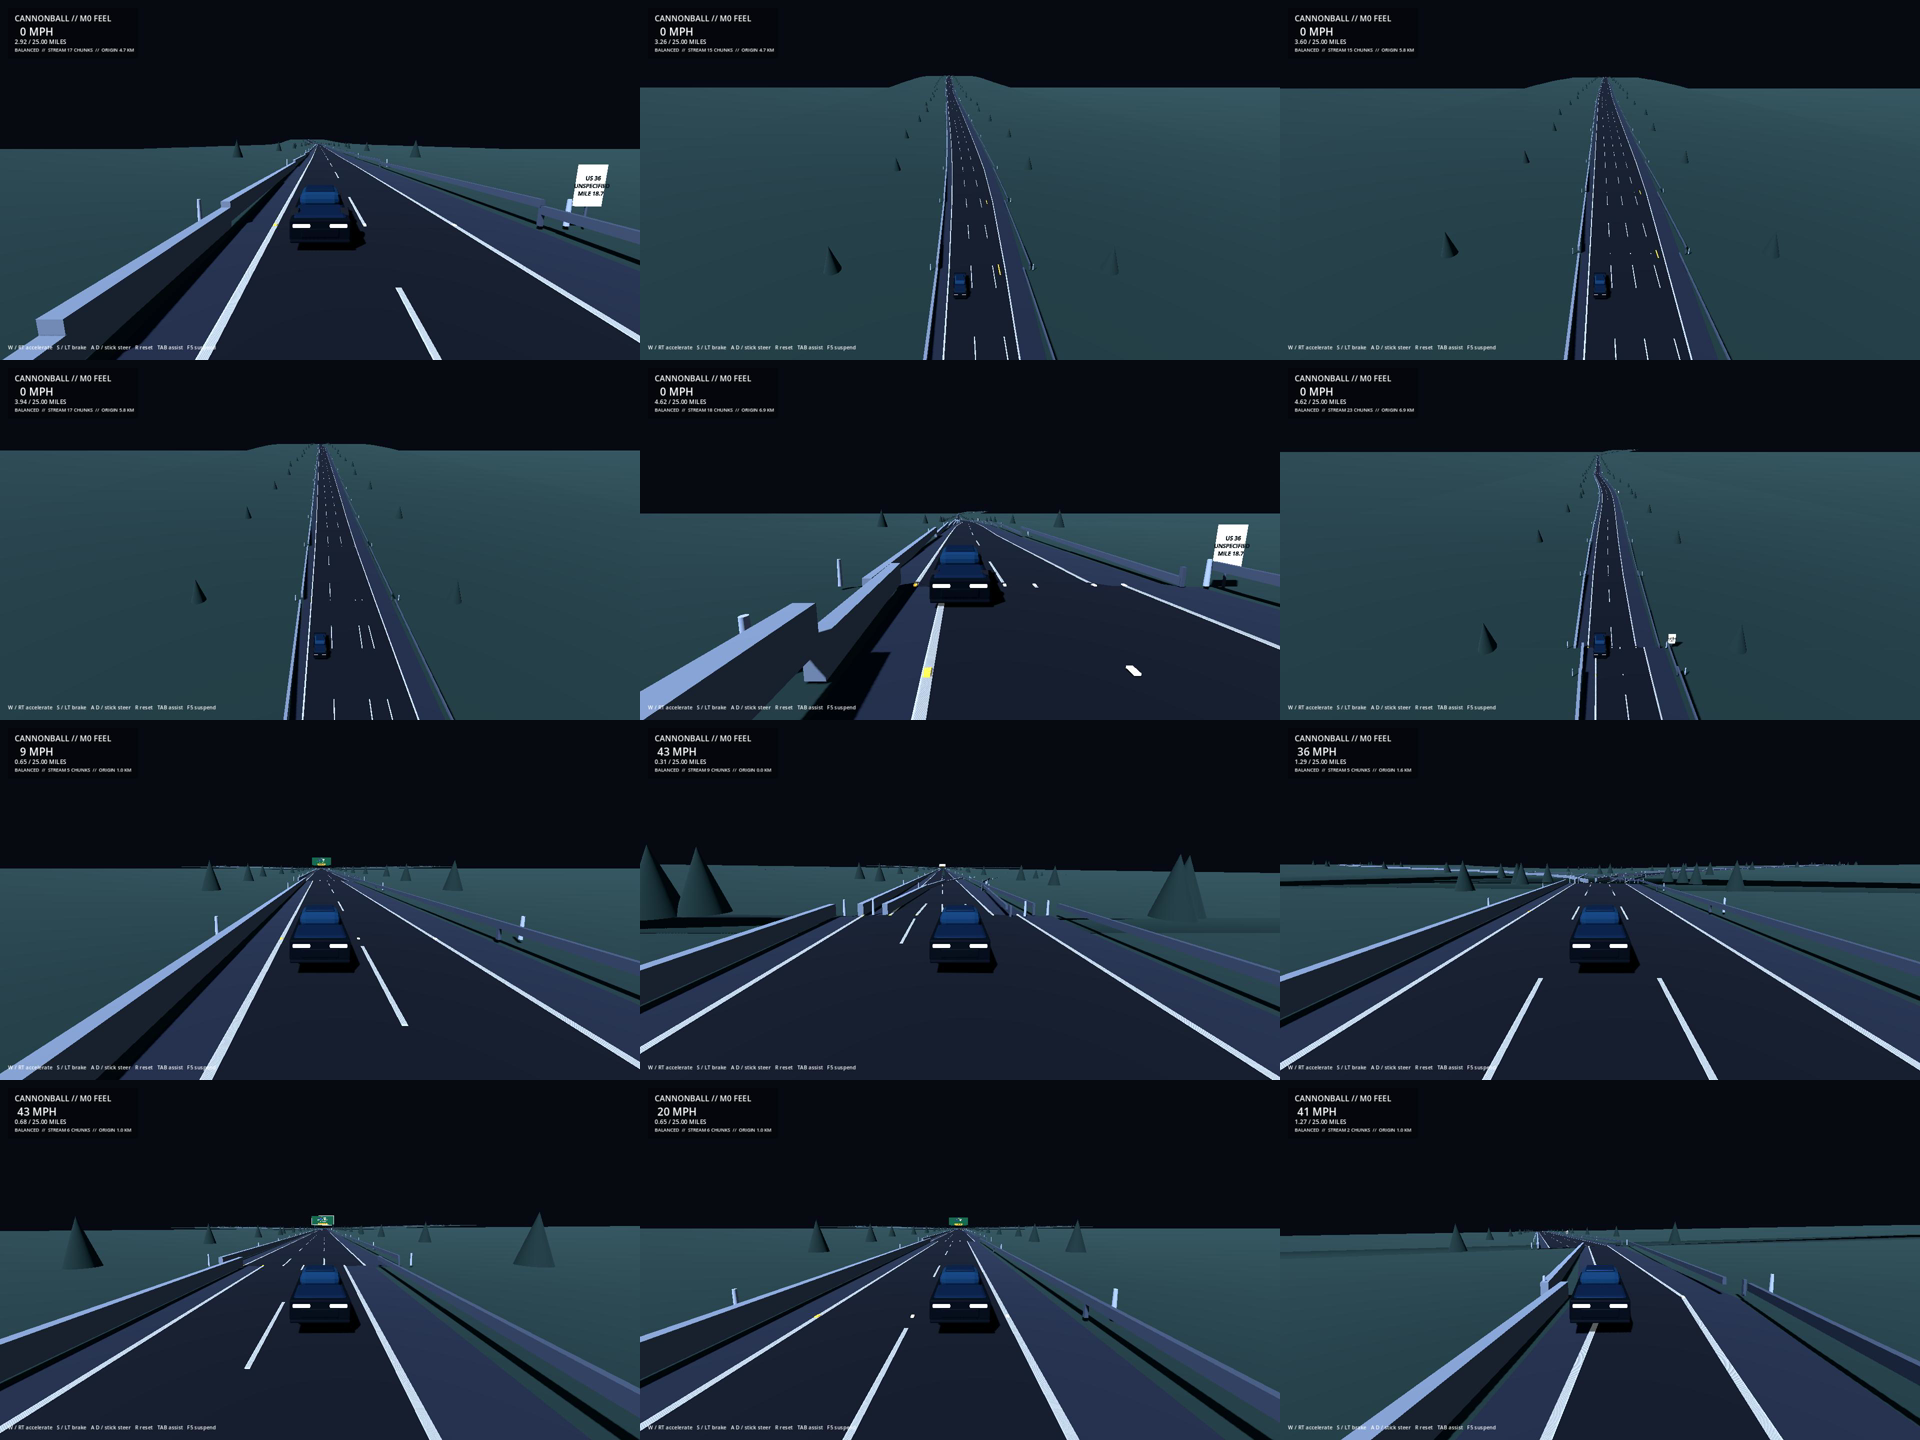
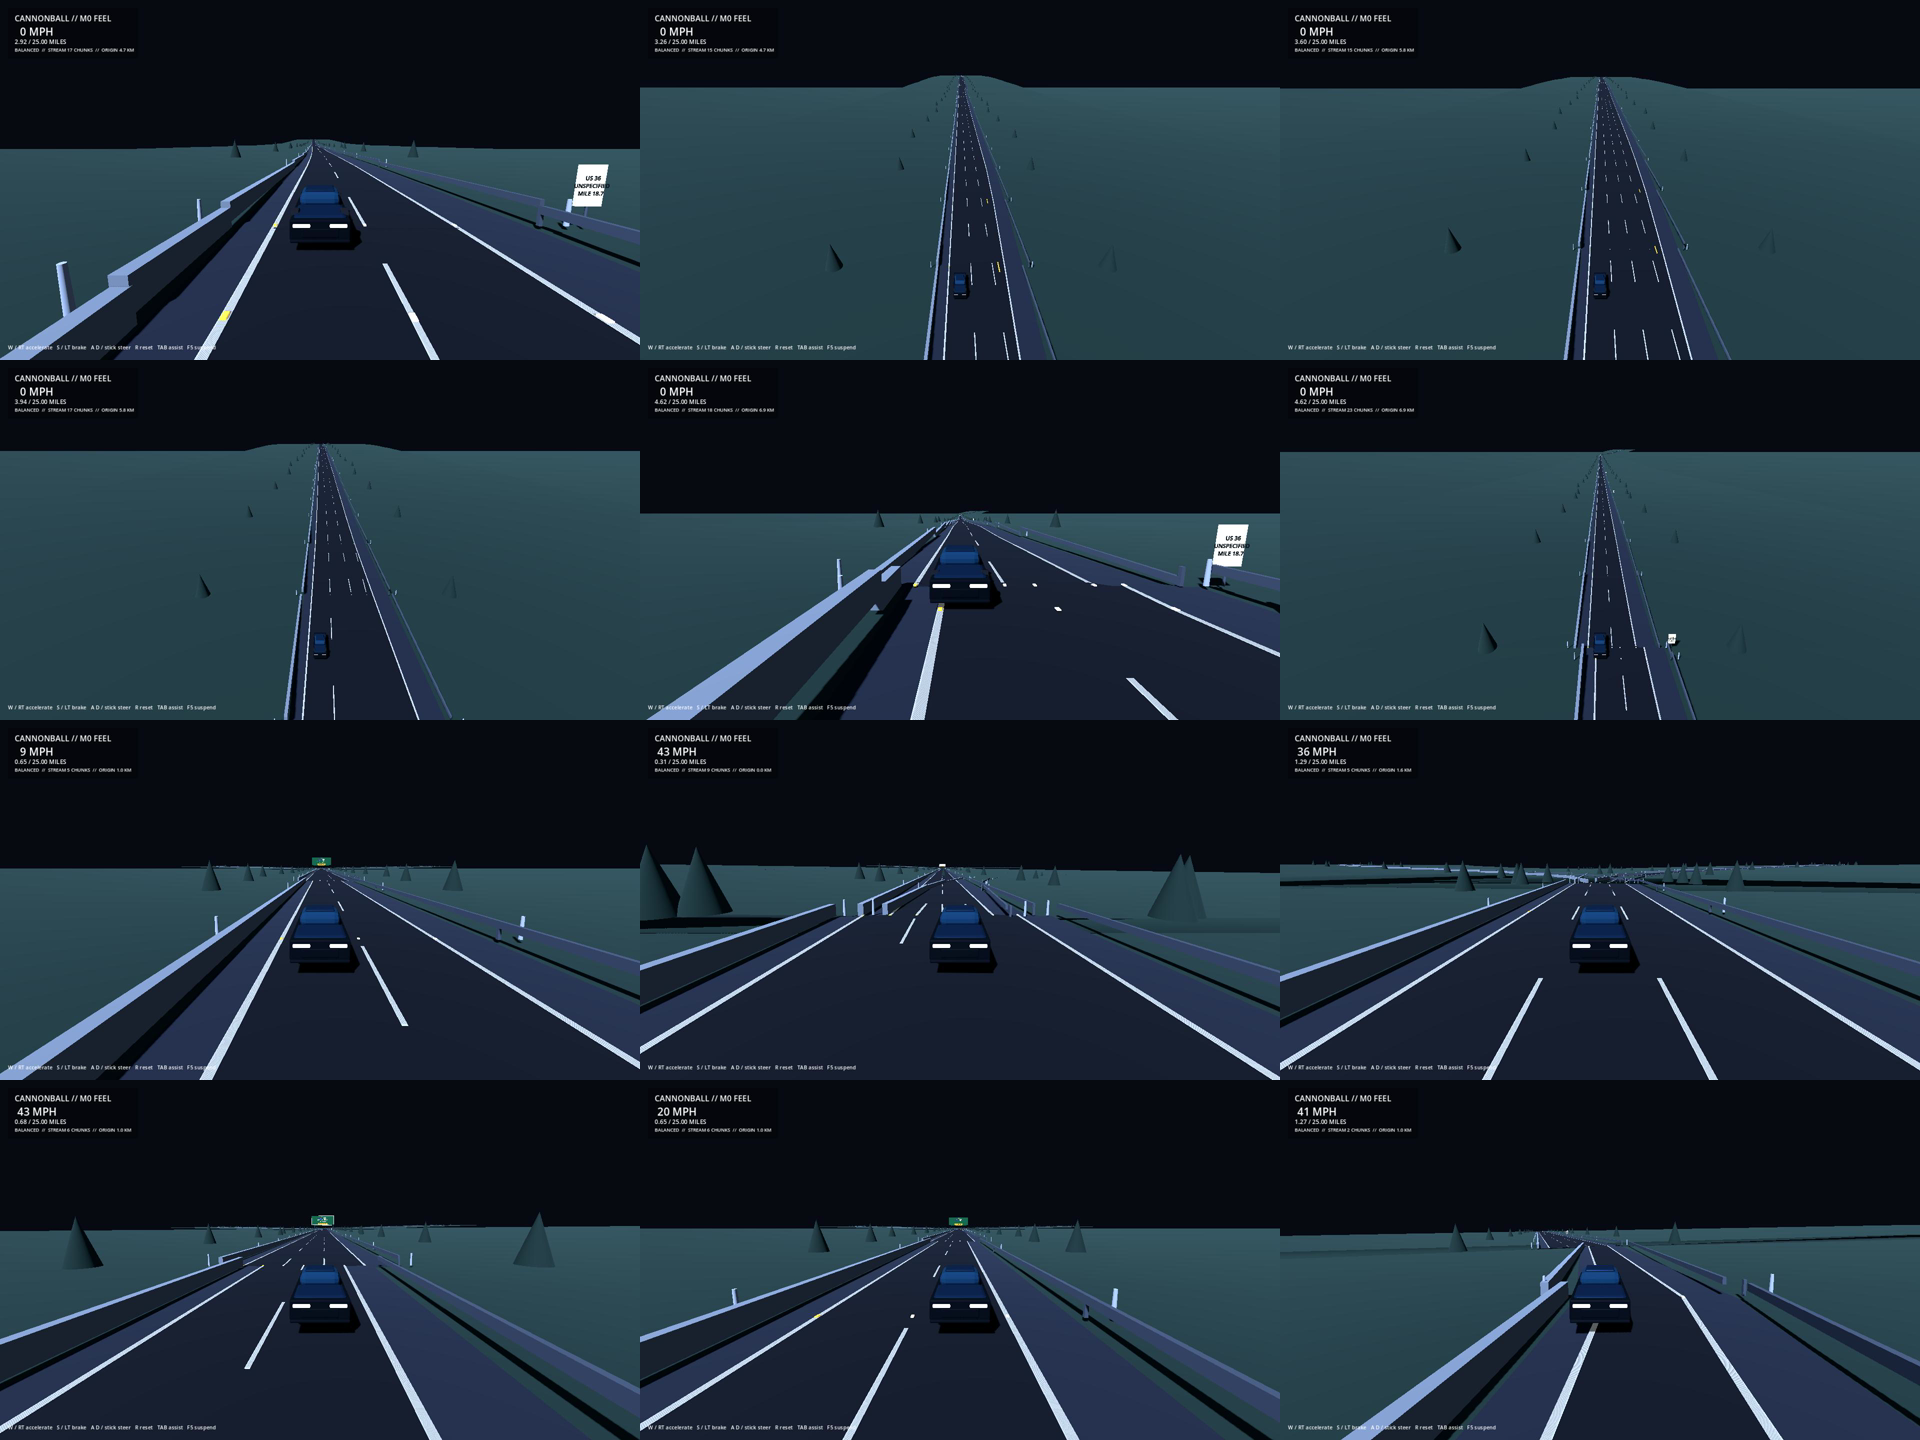
Record design alignment acceptance

diff --git a/docs/audits/2026-07-18-p0-012-validation-corpus-review.md b/docs/audits/2026-07-18-p0-012-validation-corpus-review.md
@@ -1,7 +1,7 @@
 # P0-012 representative validation corpus adversarial review
 
 - Review date: 2026-07-19 UTC
-- Reviewed implementation: `68eafa17d4a1cf929e3fa3d93d8703407056909a`
+- Reviewed implementation: `ca4e511623d6b059d29d4a34b6f9b6e887819738`
 - Result: machine acceptance passed; required geographic-plausibility and
   route-choice-comprehension human gate remains open as Q-025
 - Runtime: official Godot 4.7.1 .NET
@@ -83,9 +83,12 @@ directional transfer, and semi-directional transfer.
     cuts as visible angle points. The importer now reconstructs one conditioned
     centerline across the full unbranched corridor before splitting it back into
     semantic edges. This also absorbs a 28.284-meter source sliver that pairwise
-    smoothing could not handle correctly. All 44 continuation pairs now remain
-    below the locked 2-degree sampled-boundary limit; the measured maximum is
-    1.324 degrees, and runtime chunks share the exact alignment tangent.
+    smoothing could not handle correctly. A 50-meter design-guide tolerance
+    removes short source doglegs before curve conditioning, matching the civil
+    design sequence of choosing the alignment before staking road sections. All
+    44 continuation pairs now remain below the locked 1-degree sampled-boundary
+    limit; the measured maximum is 0.846 degrees, and runtime chunks share the
+    exact alignment tangent. The tightest sampled curve radius is 360.715 meters.
 16. The large black bars visible beside otherwise connected road surfaces were
     long shadows from cone-shaped placeholder scenery. Shadow casting is now
     disabled only for those placeholders, and the runtime review-geometry gate
@@ -122,8 +125,9 @@ before source-record boundaries are reintroduced.
 - Variable topology reached 2–4 lanes, four transitions, gore and transition
   collision, six local-origin rebases, and `161.1 mph`.
 - The source-backed corridor contains 44 physical continuation pairs. Maximum
-  sampled boundary deflection is `1.324 degrees` against the locked `2-degree`
-  limit, down from the original `151.98-degree` reversal.
+  sampled boundary deflection is `0.846 degrees` against the locked `1-degree`
+  limit, down from the original `151.98-degree` reversal. The minimum sampled
+  alignment radius is `360.715 m`.
 - Route context produced four mile markers, one exit sign, two transfer signs,
   two concurrent markers, four distinct mile values, and seven stable
   automation nodes.
@@ -139,9 +143,9 @@ the four-plan driving capture.
 
 | Artifact | SHA-256 |
 | --- | --- |
[6 lines of base64/hex data omitted]
 
 ## Remaining boundary
 